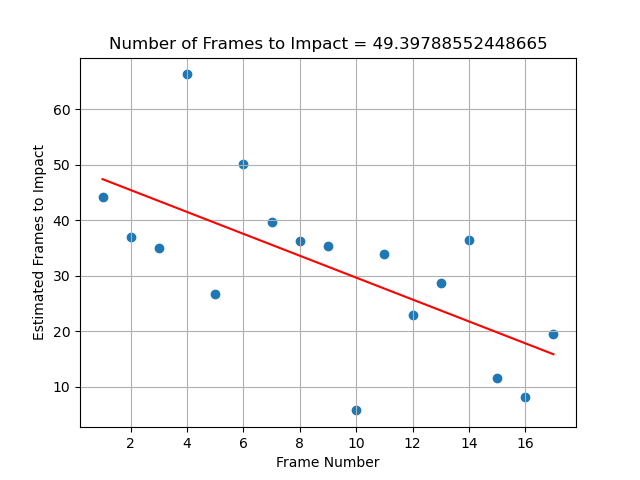
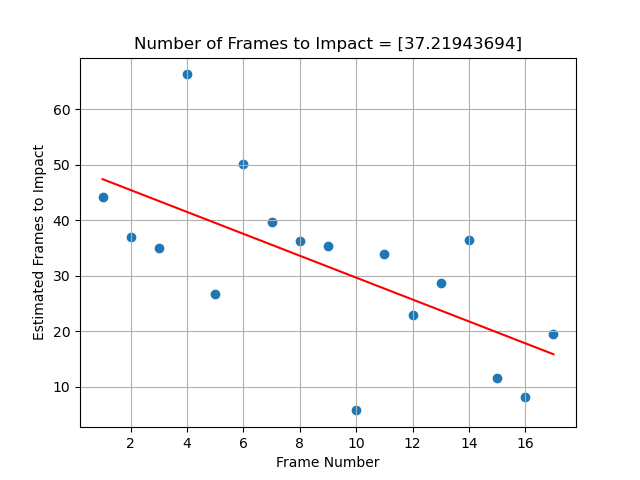
homework 7 final commit

Changed region(s): [[0.1562, 0.0625, 0.8438, 0.125]]

diff --git a/hw7/3.py b/hw7/3.py
@@ -1,0 +1,64 @@
+import cv2 as cv
+import numpy as np
+from matplotlib import pyplot as plt
+import glob
+import os
+import sys
+
+os.chdir(sys.path[0])
+
+print('Starting task 3...')
+
+pics = glob.glob('resources/images/*.jpg')
+
+f = open('resources/cam_params.txt')
+mat = []
+dist = []
+for line in f:
+    data = [float(x) for x in line.split()]
+    if len(data) == 1:
+        dist.append(data)
+    elif len(data) == 3:
+        mat.append(data)
+mat = np.asarray(mat).reshape((3, 3))
+dist = np.asarray(dist).reshape((5, 1))
+
+pixel_size = 7.4e-3
+fsx = mat[0][0]
+can_w = 59
+
+frame_prev = cv.imread(pics[0])
+gray_prev = cv.cvtColor(frame_prev, cv.COLOR_BGR2GRAY)
+pts = np.array([[282, 225], [366, 225]], dtype=np.float32)
+
+d = []
+for pic in pics:
+    frame = cv.imread(pic)
+    undistort = cv.undistort(frame, mat, dist)
+    gray = cv.cvtColor(undistort, cv.COLOR_BGR2GRAY)
+    new_pts = cv.calcOpticalFlowPyrLK(
+        gray_prev, gray, pts, None, maxLevel=3, winSize=(20, 20))[0]
+
+    pixel_w = np.abs(new_pts[0][0] - new_pts[1][0])
+    d_ = can_w * fsx / pixel_w
+    print(f'w={pixel_w} | d={d_}')
+    d.append(d_)
+    
+frame_nums = np.linspace(1, len(pics), num=len(pics))
+coeffs = np.polyfit(frame_nums, d, 1)
+p = np.poly1d(coeffs)
+x_fit = p(frame_nums)
+x_guess = p(0)
+
+fig = plt.figure(1)
+plt.scatter(frame_nums, d)
+plt.plot(frame_nums, x_fit, 'r')
+plt.grid('on')
+plt.xlabel('Frame Number')
+plt.ylabel('Estimated Distance to Impact (mm)')
+plt.title(f'Distance to Impact = {x_guess} mm')
+plt.savefig('results/3-frame_estimate.png')
+plt.close(1)
+
+print('Done.')
+exit()

diff --git a/hw7/2.py b/hw7/2.py
@@ -54,27 +54,27 @@ while True:
             a.append(x_ / x)
     a = np.mean(a)
     d_ = (a / (a - 1)) * dist_per_frame
+    print(f'frames {it-1} and {it}: a={a} | d={d_}')
     d.append(d_)
 
     gray_prev = gray_next.copy()
     pts_prev = pts_next.copy()
 
-frame_nums = np.linspace(1, len(d), num=len(d)) * dist_per_frame
+frame_nums = np.linspace(1, len(d), num=len(d))
 coeffs = np.polyfit(frame_nums, d, 1)
 p = np.poly1d(coeffs)
 x_fit = p(frame_nums)
-x_guess = p(0)
+x_guess = np.mean([p(0), np.roots(coeffs) * dist_per_frame])
 
 fig = plt.figure(1)
 plt.scatter(frame_nums, d)
 plt.plot(frame_nums, x_fit, 'r')
 plt.grid('on')
-plt.xlabel('Distance (mm)')
-plt.ylabel('Estimated Distance to Impact')
+plt.xlabel('Frame Number')
+plt.ylabel('Estimated Distance to Impact (mm)')
 plt.title(f'Distance to Impact = {x_guess} mm')
 plt.savefig('results/2-frame_estimate.png')
 plt.close(1)
 
-cv.destroyAllWindows()
 print('Done.')
 exit()

diff --git a/hw7/1.py b/hw7/1.py
@@ -53,6 +53,7 @@ while True:
             a.append(x_ / x)
     a = np.mean(a)
     tau_ = a / (a - 1)
+    print(f'frames {it-1} and {it}: a={a} | tau={tau_}')
     tau.append(tau_)
 
     gray_prev = gray_next.copy()
@@ -62,7 +63,7 @@ frame_nums = np.linspace(1, len(tau), num=len(tau))
 coeffs = np.polyfit(frame_nums, tau, 1)
 p = np.poly1d(coeffs)
 x_fit = p(frame_nums)
-x_guess = p(0)
+x_guess = np.mean([p(0), np.roots(coeffs)])
 
 fig = plt.figure(1)
 plt.scatter(frame_nums, tau)
@@ -74,6 +75,5 @@ plt.title(f'Number of Frames to Impact = {x_guess}')
 plt.savefig('results/1-frame_estimate.png')
 plt.close(1)
 
-cv.destroyAllWindows()
 print('Done.')
 exit()
